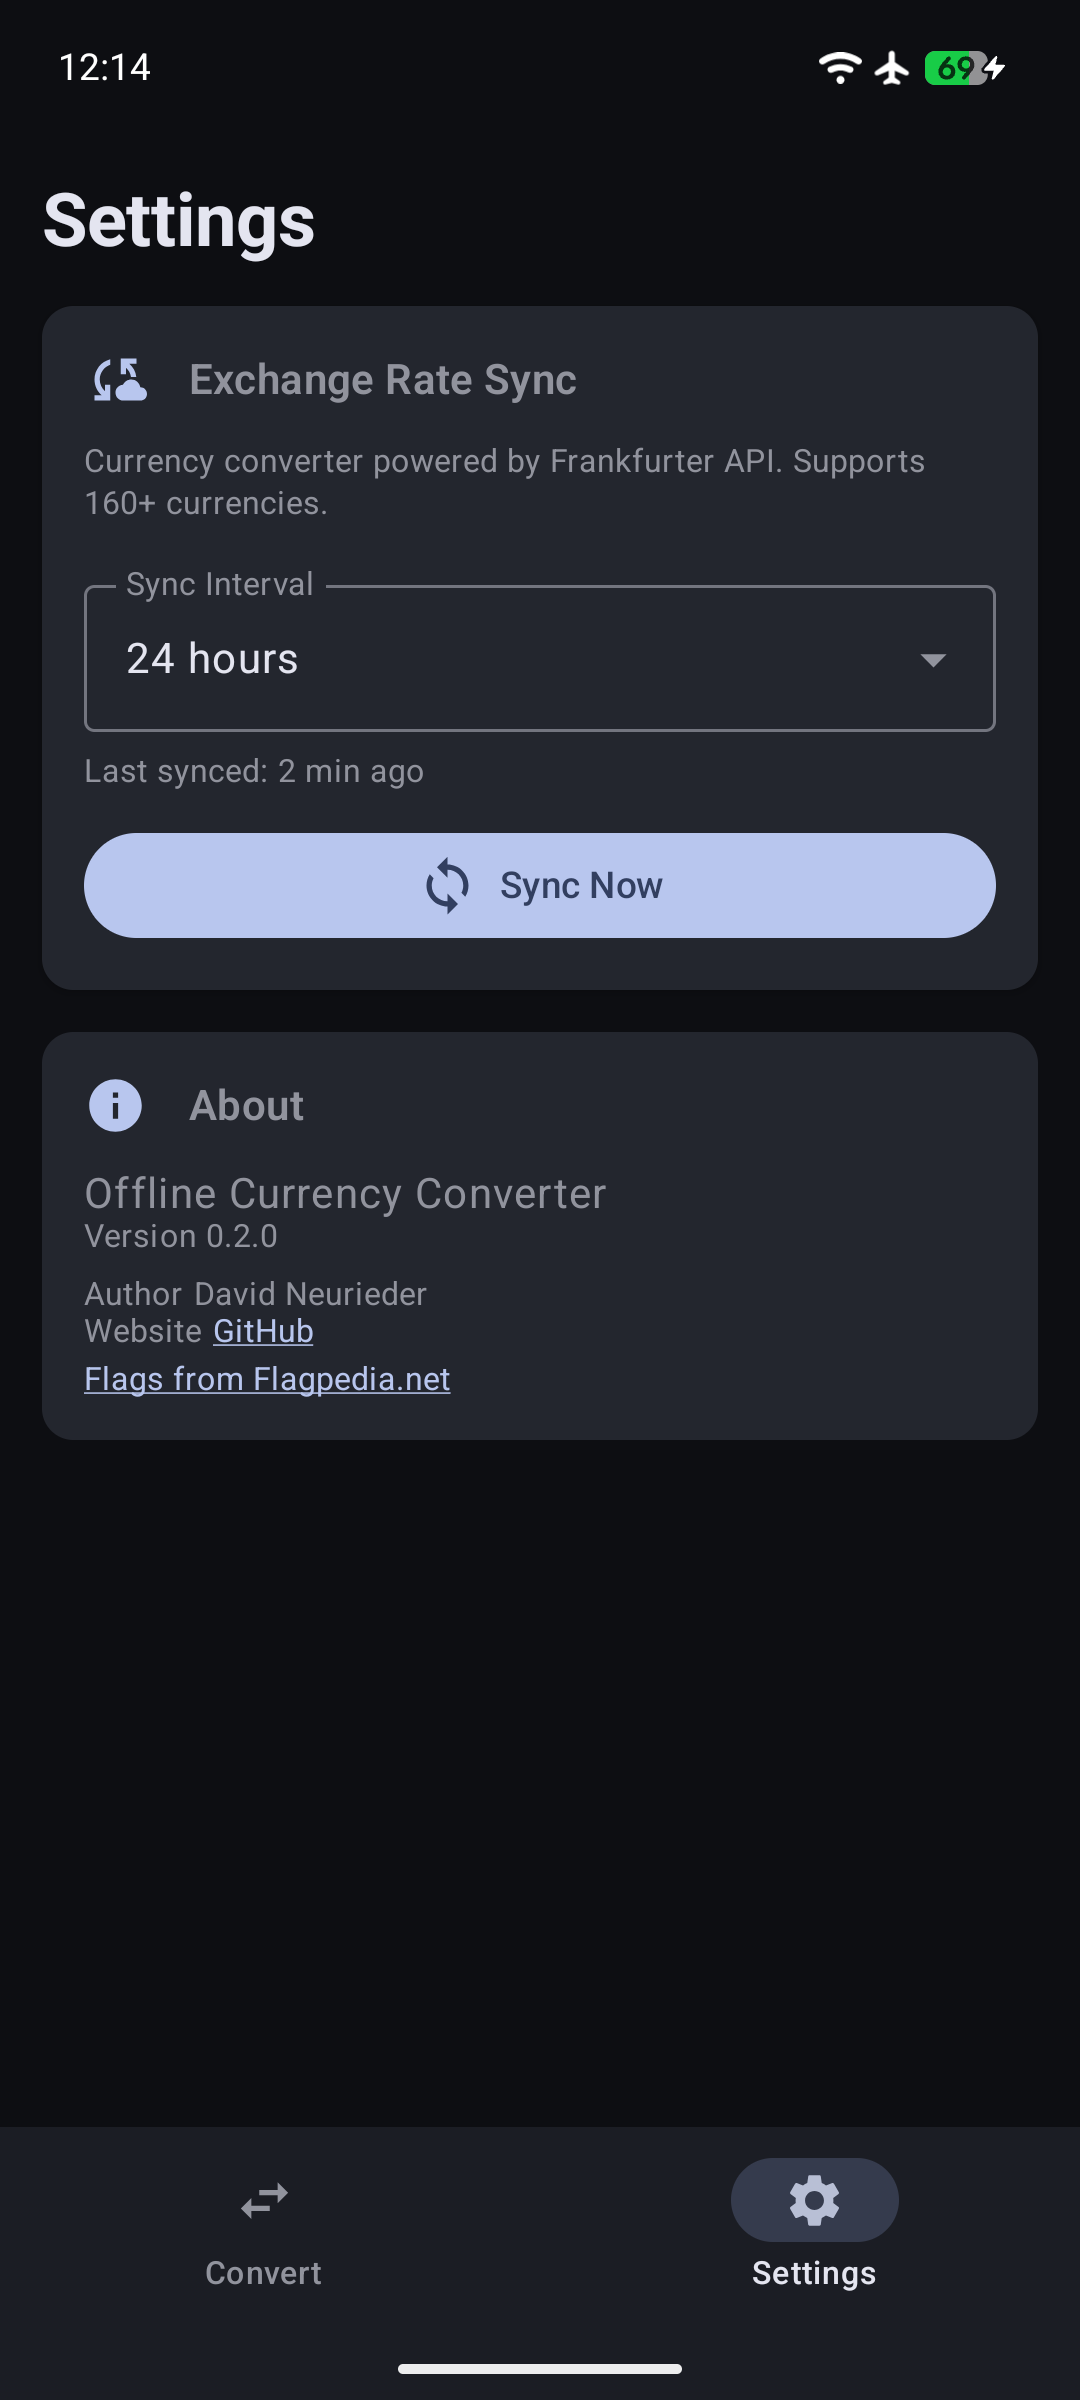
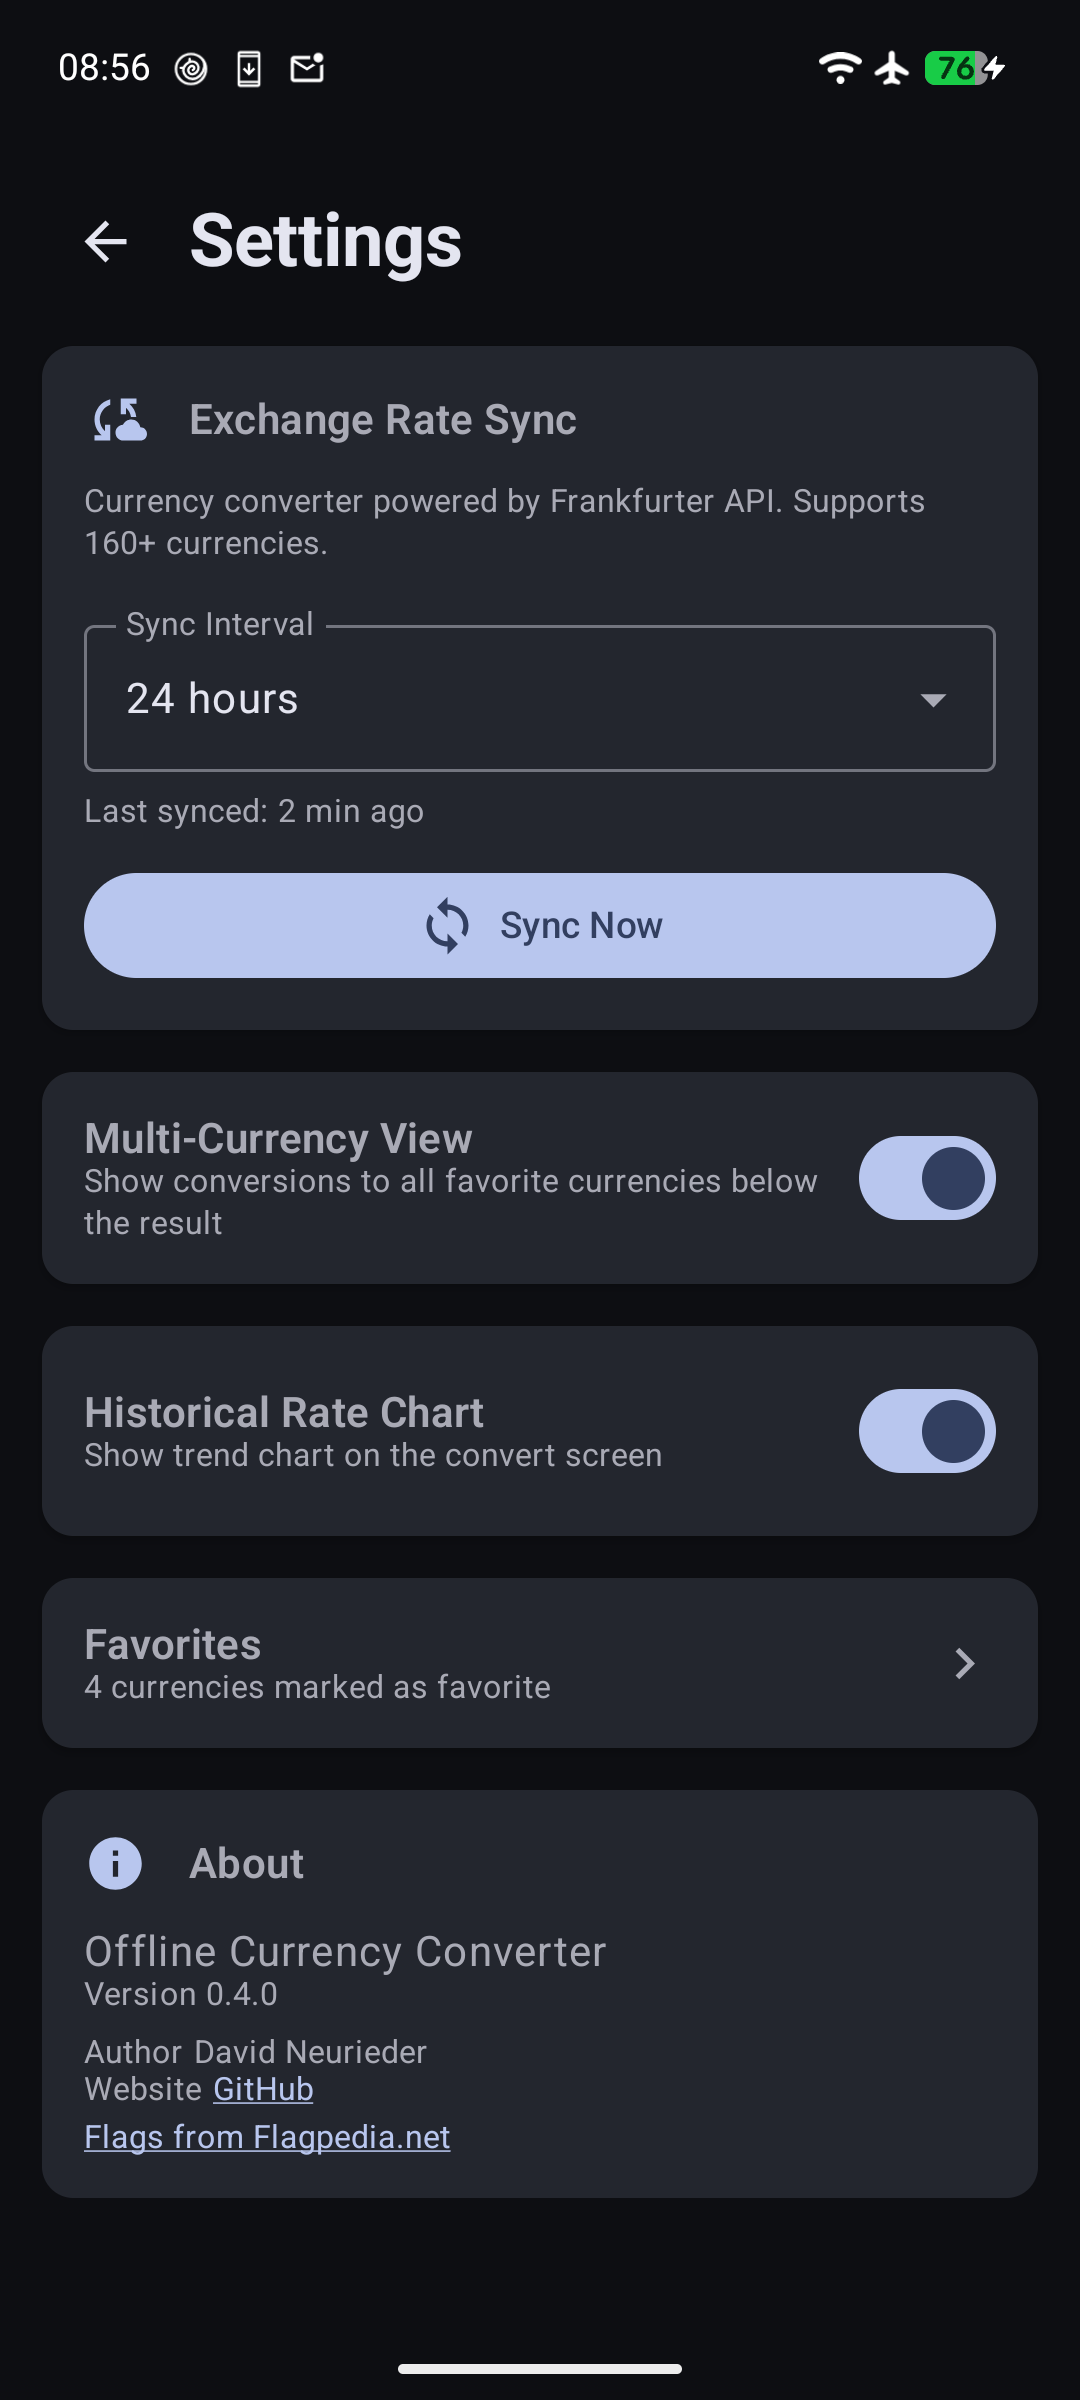
updated changelogs readme screenshots

diff --git a/CHANGELOG.md b/CHANGELOG.md
@@ -6,16 +6,29 @@
 - Favorite currencies: star your most-used currencies for quick access
 - Multi-currency view: see conversions to all your favorites at once
 - Default favorites (USD, EUR, GBP, JPY, CNY) pre-selected on first install
-- Favorites picker: tap the star icon to pick a favorite as source currency
-- 30-day rate trend charts for any currency pair
-- Tap-to-expand charts with detailed view (high/low/change stats)
-- Historical chart toggle: enable/disable rate charts in settings
-- Home screen widget: live exchange rate, currency symbols, last updated time, tap to open
-- Widget auto-updates after background sync
+- 90-day rate trend charts with gradient fill, cubic curves, dashed grid lines, and trend-based colors
+- Touch-interactive charts: long-press for crosshair tooltip with date and rate
+- Rate chart summary: current rate, change %, high, and low displayed inline below chart
+- Date range tabs (7D / 30D / 90D) with persisted selection across restarts
+- Historical chart toggle: enable/disable rate charts in settings (on by default)
+- Home screen widget with Material You dynamic colors (Android 12+)
+- Widget cross-rate computation: shows correct rate for any source/target pair
+- Widget auto-updates after background sync and currency changes in the app
 - Sync status badge: colored indicator shows how fresh your rates are
+- Amount persistence: input amount survives app restarts (defaults to 1)
 - Amount clear button
 - Manual sync option: disable automatic background sync in settings
 - Pull-to-refresh and Sync Now always work regardless of sync setting
+- Settings page with back navigation (no bottom nav bar)
+- Favorites management in Settings screen
+- Copy button inline with converted amount
+- Auto-sync on first install and app version update (no redundant syncs on every launch)
+
+### Changed
+- Charts now fetch 90 days of data (was 30) with UI-level filtering
+- Initial amount defaults to 1 instead of empty
+- Historical rates chart enabled by default for new installs
+- Widget rate display rounded to 2 decimal places
 
 ## 0.3.0
 

diff --git a/README.md b/README.md
@@ -18,14 +18,15 @@ The app fetches exchange rates from the free [Frankfurter API](https://frankfurt
 - **160+ currencies** — all ECB reference rates
 - **Favorites** — star your most-used currencies for quick access
 - **Multi-currency view** — see conversions to all your favorites at once
-- **Rate trend charts** — 30-day historical charts for any currency pair
-- **Historical chart toggle** — enable/disable rate charts in settings
-- **Tap-to-expand charts** — tap the chart for a detailed view with stats
-- **Home screen widget** — live exchange rate with currency symbols, tap to open app
+- **Rate trend charts** — 90-day historical charts with gradient fill, cubic curves, and trend colors
+- **Interactive charts** — long-press for crosshair tooltip with date and rate
+- **Date range tabs** — switch between 7D, 30D, and 90D views (persisted across restarts)
+- **Home screen widget** — Material You dynamic colors, works with any currency pair
 - **Sync status** — colored badge shows how fresh your rates are
 - **Copy result** — tap to copy any conversion to clipboard
 - **Pull-to-refresh** — manually trigger a rate sync from the convert screen
-- **Amount clear button** — quickly clear the input field
+- **Amount persistence** — your input survives app restarts
+- **Auto-sync** — rates sync on first install and app updates, not on every launch
 - **Bundled flags** — country flags are built into the app, no network loading
 - **Material Design 3** — modern UI with dynamic theming
 - **Privacy first** — no accounts, no tracking, no network permissions at runtime